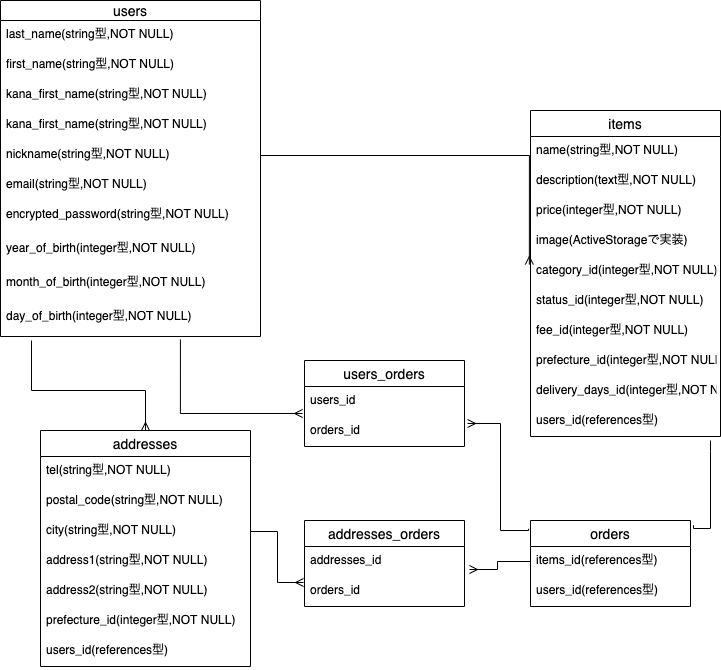
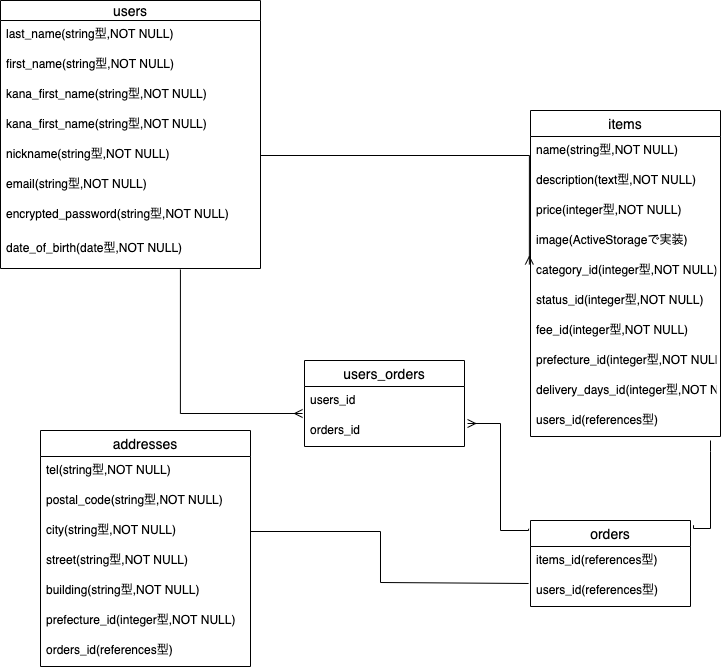
DB設計　修正ver3

diff --git a/README.md b/README.md
@@ -11,9 +11,7 @@
 | nickname           | string  | null: false               |
 | email              | string  | null: false               |
 | encrypted_password | string  | null: false, unique: true |
-| year_of_birth      | integer | null: false               |
-| month_of_birth     | integer | null: false               |
-| day_of_birth       | integer | null: false               |
+| date_of_birth      | date    | null: false               |
 
 ### Association
 - has_many :items
@@ -28,12 +26,12 @@
 | name             | string     | null: false                    |
 | description      | text       | null: false                    |
 | price            | integer    | null: false                    |
-| category_id      | integer    | null: false                    |
-| status_id        | integer    | null: false |
-| fee_id           | integer    | null: false |
-| prefecture_id    | integer    | null: false |
-| delivery_days_id | integer    | null: false |
-| users_id         | references | null: false, foreign_key: true |
+| category         | integer    | null: false                    |
+| status           | integer    | null: false |
+| fee              | integer    | null: false |
+| prefecture       | integer    | null: false |
+| delivery_days    | integer    | null: false |
+| users            | references | null: false, foreign_key: true |
 
 ### Association
 - belongs_to :user
@@ -47,14 +45,14 @@
 | tel           | string     | null: false                    |
 | postal_code   | string     | null: false                    |
 | city          | string     | null: false                    |
-| address1      | string     | null: false                    |
-| address2      | string     | null: false                    |
-| prefecture_id | integer    | null: false                    |
-| orders_id     | references | null: false, foreign_key: true |
+| street        | string     | null: false                    |
+| building      | string     | null: false                    |
+| prefecture    | integer    | null: false                    |
+| orders        | references | null: false, foreign_key: true |
 
 
 ### Association
-- has_many :orders
+- has_one :order
 
 
 
@@ -62,8 +60,8 @@
 
 | Column       | Type       | Options                        |
 | ------------ | ---------- | ------------------------------ |
-| items_id     | references | null: false, foreign_key: true |
-| users_id     | references | null: false, foreign_key: true |
+| items        | references | null: false, foreign_key: true |
+| users        | references | null: false, foreign_key: true |
 
 ### Association
 - has_many :users_orders
@@ -76,8 +74,8 @@
 
 | Column    | Type       | Options                        |
 | --------- | ---------- | ------------------------------ |
-| user_id   | references | null: false, foreign_key: true |
-| orders_id | references | null: false, foreign_key: true |
+| user      | references | null: false, foreign_key: true |
+| orders    | references | null: false, foreign_key: true |
 
 ### Association
 - belongs_to :order
